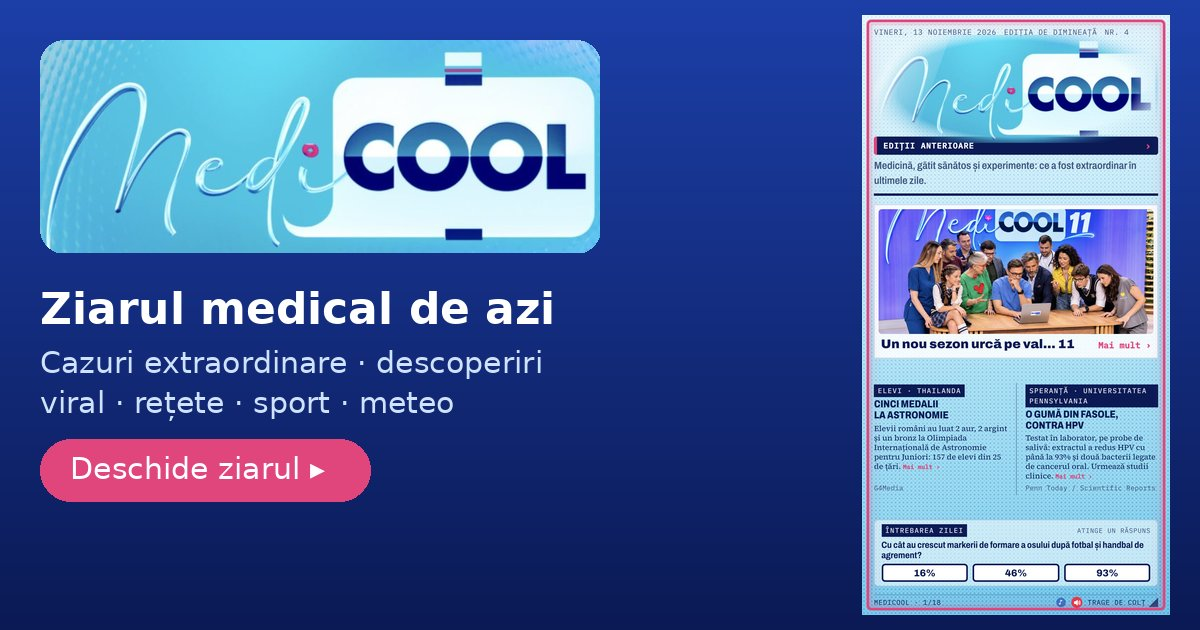
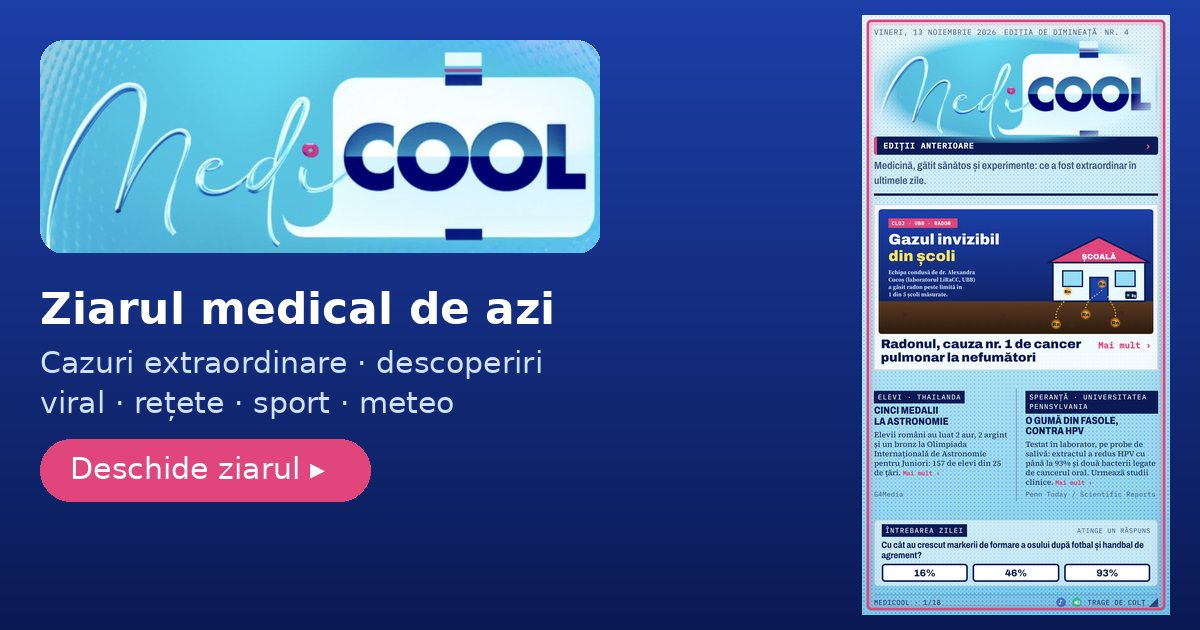
Medicool 2026-11-13: pe copertă, radonul din școli (echipa UBB) în locul fotografiei de grup
Claude-Session: https://claude.ai/code/session_01FzDV5b68UMWScboPR3TvHi

Changed region(s): [[0.7092, 0.3317, 0.9867, 0.7841], [0.7092, 0.0603, 0.8017, 0.181], [0.8942, 0.9349, 0.925, 0.9651]]

diff --git a/2026-11-13/ziar.html b/2026-11-13/ziar.html
@@ -364,8 +364,37 @@ subiecte_recente: 2026-11-09 copil de piatră Somaliland; gel smalț Nottingham;
   </header>
   <div class="grow">
     <div class="tile s11">
-      <a class="more s11ph" href="https://bostidesign74-star.github.io/Medicool/sezon11/" target="_blank" rel="noopener"><img src="https://bostidesign74-star.github.io/Medicool/sezon11/echipa.jpg?v=2" alt="Echipa MediCOOL în platou"></a>
-      <div class="s11t"><h3>Un nou sezon urcă pe val… 11</h3><a class="more" href="https://bostidesign74-star.github.io/Medicool/sezon11/" target="_blank" rel="noopener">Mai mult ›</a></div>
+      <a class="more s11ph" href="https://romania.europalibera.org/a/radon-radioactiv-scoli-si-gradinite/31345273.html" target="_blank" rel="noopener"><svg viewBox="0 0 1671 763" xmlns="http://www.w3.org/2000/svg" role="img" aria-label="Radonul urcă din sol în clădiri" style="position:absolute;inset:0;width:100%;height:100%;display:block">
+<defs><linearGradient id="rnsky" x1="0" y1="0" x2="0" y2="1"><stop offset="0" stop-color="#1C3FA8"/><stop offset="1" stop-color="#0B1A55"/></linearGradient>
+<linearGradient id="rnsoil" x1="0" y1="0" x2="0" y2="1"><stop offset="0" stop-color="#5B3A22"/><stop offset="1" stop-color="#2A1A0E"/></linearGradient>
+<radialGradient id="rnglow"><stop offset="0" stop-color="#FFE45C"/><stop offset=".55" stop-color="#FF9F1C" stop-opacity=".8"/><stop offset="1" stop-color="#FF9F1C" stop-opacity="0"/></radialGradient></defs>
+<rect width="1671" height="763" fill="url(#rnsky)"/>
+<rect y="560" width="1671" height="203" fill="url(#rnsoil)"/>
+<g fill="#3E2716" opacity=".7"><circle cx="160" cy="640" r="14"/><circle cx="420" cy="700" r="10"/><circle cx="760" cy="650" r="12"/><circle cx="1180" cy="710" r="16"/><circle cx="1480" cy="630" r="11"/></g>
+<g transform="translate(1060,200)">
+<rect x="0" y="120" width="560" height="240" fill="#E9F9FE" stroke="#0B1A55" stroke-width="10"/>
+<polygon points="-30,125 280,-30 590,125" fill="#E0457B" stroke="#0B1A55" stroke-width="10" stroke-linejoin="round"/>
+<rect x="60" y="175" width="120" height="95" fill="#97DCF4" stroke="#0B1A55" stroke-width="8"/>
+<rect x="380" y="175" width="120" height="95" fill="#97DCF4" stroke="#0B1A55" stroke-width="8"/>
+<rect x="225" y="215" width="110" height="145" fill="#1C3FA8" stroke="#0B1A55" stroke-width="8"/>
+<text x="280" y="105" text-anchor="middle" font-family="Archivo,Arial,sans-serif" font-weight="900" font-size="46" fill="#fff">ȘCOALĂ</text>
+<rect x="440" y="300" width="70" height="46" rx="8" fill="#0B1A55"/><circle cx="458" cy="323" r="8" fill="#38E07B"/><text x="492" y="333" text-anchor="middle" font-family="'IBM Plex Mono',monospace" font-size="22" fill="#fff">Bq</text>
+</g>
+<g font-family="Archivo,Arial,sans-serif" font-weight="900" fill="#0B1A55" text-anchor="middle" font-size="30">
+<circle cx="1080" cy="700" r="34" fill="url(#rnglow)"/><text x="1080" y="711">Rn</text>
+<circle cx="1260" cy="640" r="34" fill="url(#rnglow)"/><text x="1260" y="651">Rn</text>
+<circle cx="1440" cy="690" r="34" fill="url(#rnglow)"/><text x="1440" y="701">Rn</text>
+<circle cx="1150" cy="500" r="30" fill="url(#rnglow)"/><text x="1150" y="510" font-size="26">Rn</text>
+<circle cx="1360" cy="455" r="30" fill="url(#rnglow)"/><text x="1360" y="465" font-size="26">Rn</text>
+</g>
+<g stroke="#FFE45C" stroke-width="6" stroke-dasharray="4 14" stroke-linecap="round" fill="none" opacity=".85"><path d="M1080 660 C1070 600 1140 560 1150 535"/><path d="M1260 600 C1270 540 1340 520 1360 490"/><path d="M1440 650 C1450 600 1400 560 1390 520"/></g>
+<rect x="60" y="56" width="420" height="58" fill="#E0457B"/>
+<text x="80" y="96" font-family="'IBM Plex Mono',monospace" font-size="30" font-weight="700" fill="#fff" letter-spacing="2">CLUJ · UBB · RADON</text>
+<text x="60" y="215" font-family="Archivo,Arial,sans-serif" font-weight="900" font-size="92" fill="#fff">Gazul invizibil</text>
+<text x="60" y="315" font-family="Archivo,Arial,sans-serif" font-weight="900" font-size="92" fill="#FFE45C">din școli</text>
+<text font-family="'Source Serif 4',Georgia,serif" font-size="36" fill="#CFE3FF"><tspan x="60" y="395">Echipa condusă de dr. Alexandra</tspan><tspan x="60" y="440">Cucoș (laboratorul LiRaCC, UBB)</tspan><tspan x="60" y="485">a găsit radon peste limită în</tspan><tspan x="60" y="530">1 din 5 școli măsurate.</tspan></text>
+</svg></a>
+      <div class="s11t"><h3>Radonul, cauza nr. 1 de cancer pulmonar la nefumători</h3><a class="more" href="https://romania.europalibera.org/a/radon-radioactiv-scoli-si-gradinite/31345273.html" target="_blank" rel="noopener">Mai mult ›</a></div>
     </div>
     <div class="frontcols">
       <article class="fcol">
@@ -597,7 +626,7 @@ subiecte_recente: 2026-11-09 copil de piatră Somaliland; gel smalț Nottingham;
     <div class="dzp-circ"><span>Citești în MediCOOL</span><i>→</i><span>Descoperi în platou</span><i>→</i><span>Înțelegi mai mult online</span></div>
     <article class="tile mark">
       <span class="kicker">Articolul care ajunge la televizor · pag. 9</span>
-      <div class="dzp-a"><svg viewBox="0 0 120 140" aria-label="Ilustrație: minge, os și traseu în zigzag" role="img"><rect x="2" y="2" width="116" height="136" rx="10" fill="#E3F4FC" stroke="#1C3FA8" stroke-width="2"/><circle cx="34" cy="34" r="17" fill="#fff" stroke="#0B1A55" stroke-width="3"/><polygon points="34,27 41,32 38,40 30,40 27,32" fill="#0B1A55"/><polyline points="58,22 74,40 86,24 102,42" fill="none" stroke="#E0457B" stroke-width="4" stroke-linecap="round" stroke-linejoin="round"/><polygon points="102,42 92,40 100,32" fill="#E0457B"/><text x="60" y="68" text-anchor="middle" font-family="IBM Plex Mono,monospace" font-size="9" fill="#0B1A55" font-weight="700">+46%</text><rect x="36" y="94" width="48" height="12" rx="4" fill="#fff" stroke="#1C3FA8" stroke-width="3"/><circle cx="32" cy="92" r="8" fill="#fff" stroke="#1C3FA8" stroke-width="3"/><circle cx="32" cy="108" r="8" fill="#fff" stroke="#1C3FA8" stroke-width="3"/><circle cx="88" cy="92" r="8" fill="#fff" stroke="#1C3FA8" stroke-width="3"/><circle cx="88" cy="108" r="8" fill="#fff" stroke="#1C3FA8" stroke-width="3"/><rect x="36" y="95" width="48" height="10" fill="#fff"/></svg><div>
+      <div class="dzp-a"><svg viewBox="0 0 120 140" aria-label="Ilustrație: minge, os și traseu în zigzag" role="img"><rect x="2" y="2" width="116" height="136" rx="10" fill="#E3F4FC" stroke="#1C3FA8" stroke-width="2"/><circle cx="34" cy="34" r="17" fill="#fff" stroke="#0B1A55" stroke-width="3"/><polygon points="34,27 41,32 38,40 30,40 27,32" fill="#0B1A55"/><polyline points="58,22 74,40 86,24 102,42" fill="none" stroke="#E0457B" stroke-width="4" stroke-linecap="round" stroke-linejoin="round"/><polygon points="102,42 92,40 100,32" fill="#E0457B"/><text x="60" y="68" text-anchor="middle" font-family="'IBM Plex Mono',monospace" font-size="9" fill="#0B1A55" font-weight="700">+46%</text><rect x="36" y="94" width="48" height="12" rx="4" fill="#fff" stroke="#1C3FA8" stroke-width="3"/><circle cx="32" cy="92" r="8" fill="#fff" stroke="#1C3FA8" stroke-width="3"/><circle cx="32" cy="108" r="8" fill="#fff" stroke="#1C3FA8" stroke-width="3"/><circle cx="88" cy="92" r="8" fill="#fff" stroke="#1C3FA8" stroke-width="3"/><circle cx="88" cy="108" r="8" fill="#fff" stroke="#1C3FA8" stroke-width="3"/><rect x="36" y="95" width="48" height="10" fill="#fff"/></svg><div>
         <h2>Sprinturi, întoarceri și oase mai puternice</h2>
         <p><b>Problema:</b> osteoporoza face oasele fragile, iar mulți cred că mersul ajunge pentru oase. <b>De ce contează:</b> mișcările cu accelerări și schimbări de direcție au dat cel mai puternic semnal de formare a osului. <b>Pentru TV:</b> un cântar cu ac arată pe loc cum crește forța la o mișcare bruscă.<a class="more" href="https://www.sciencedaily.com/releases/2026/11/261110042601.htm" target="_blank" rel="noopener">Articolul complet ›</a></p>
       </div></div>
@@ -794,7 +823,7 @@ subiecte_recente: 2026-11-09 copil de piatră Somaliland; gel smalț Nottingham;
     </div>
     <ol class="srclist">
       <li>G4Media: <a href="https://www.g4media.ro/elevii-romani-au-obtinut-cinci-medalii-dintre-care-doua-de-aur-la-olimpiada-de-astronomie-pentru-juniori.html">astronomie</a>, <a href="https://www.g4media.ro/ministrul-rogobete-trimite-corpul-de-control-la-ambulatorii-publice-si-private-din-bucuresti-si-alte-12-resedinte-de-judete-nu-este-o-vanatoare-de-vrajitoare.html">controale</a></li>
-      <li>Penn Today: <a href="https://penntoday.upenn.edu/news/penn-dental-medicine-fighting-oral-cancer-bioengineered-chewing-gum">guma din fasole</a></li>
+      <li>Penn Today: <a href="https://penntoday.upenn.edu/news/penn-dental-medicine-fighting-oral-cancer-bioengineered-chewing-gum">guma din fasole</a>; Europa Liberă: <a href="https://romania.europalibera.org/a/radon-radioactiv-scoli-si-gradinite/31345273.html">radon în școli (UBB)</a></li>
       <li>ScienceDaily: <a href="https://www.sciencedaily.com/releases/2026/11/261108203832.htm">guma</a>, <a href="https://www.sciencedaily.com/releases/2026/11/261101010556.htm">somn</a>, <a href="https://www.sciencedaily.com/releases/2026/11/261111221501.htm">fructoza</a>, <a href="https://www.sciencedaily.com/releases/2026/11/261104084021.htm">PRDX1</a>, <a href="https://www.sciencedaily.com/releases/2026/11/261109205415.htm">Lp(a)</a>, <a href="https://www.sciencedaily.com/releases/2026/11/261104012303.htm">talamus</a>, <a href="https://www.sciencedaily.com/releases/2026/11/261109205413.htm">păr</a>, <a href="https://www.sciencedaily.com/releases/2026/11/261112025527.htm">PFAS</a>, <a href="https://www.sciencedaily.com/releases/2026/11/261110042543.htm">energizante</a>, <a href="https://www.sciencedaily.com/releases/2026/11/261109205401.htm">demență</a>, <a href="https://www.sciencedaily.com/releases/2026/11/261110042601.htm">oase</a>, <a href="https://www.sciencedaily.com/releases/2026/11/261106174545.htm">manuscrise</a>, <a href="https://www.sciencedaily.com/releases/2026/10/261007233348.htm">intervale</a></li>
       <li>Antena 3 CNN: <a href="https://www.antena3.ro/meteo/temperaturile-urca-pana-la-25-de-grade-in-bucuresti-apoi-vremea-se-schimba-radical-va-fi-mai-frig-cu-15-grade-de-pe-o-zi-pe-alta-810887.html">prognoza ANM</a>, <a href="https://www.antena3.ro/meteo/anm-a-emis-cod-portocaliu-si-cod-galben-de-ploi-si-vant-puternic-in-mai-multe-regiuni-din-tara-la-munte-va-ninge-810880.html">coduri ANM</a>, <a href="https://www.antena3.ro/life/sanatate/rogobete-despre-medicii-care-pleaca-de-la-spital-la-cabinet-in-timpul-programului-ma-gandesc-la-desfacerea-contractului-de-munca-810562.html">medicii la privat</a>, <a href="https://www.antena3.ro/actualitate/educatie/o-universitate-din-romania-muta-cursurile-in-online-pana-in-ianuarie-pentru-a-reduce-facturile-la-energie-810921.html">UAV Arad</a></li>
       <li>Observator: <a href="https://observatornews.ro/vremea/vremea-de-maine-13-noiembrie-rafale-de-140-kmh-la-munte-si-ploi-in-toata-tara-unde-vor-fi-27-de-grade-672113.html">13 nov.</a>, <a href="https://observatornews.ro/vremea/cod-rosu-de-vant-puternic-la-munte-in-judetul-cluj-rafale-de-pana-la-150-kmh-672203.html">cod roșu</a>, <a href="https://observatornews.ro/vremea/cluj-napoca/">Cluj</a>, <a href="https://observatornews.ro/vremea/iasi/">Iași</a>, <a href="https://observatornews.ro/vremea/brasov/">Brașov</a></li>
